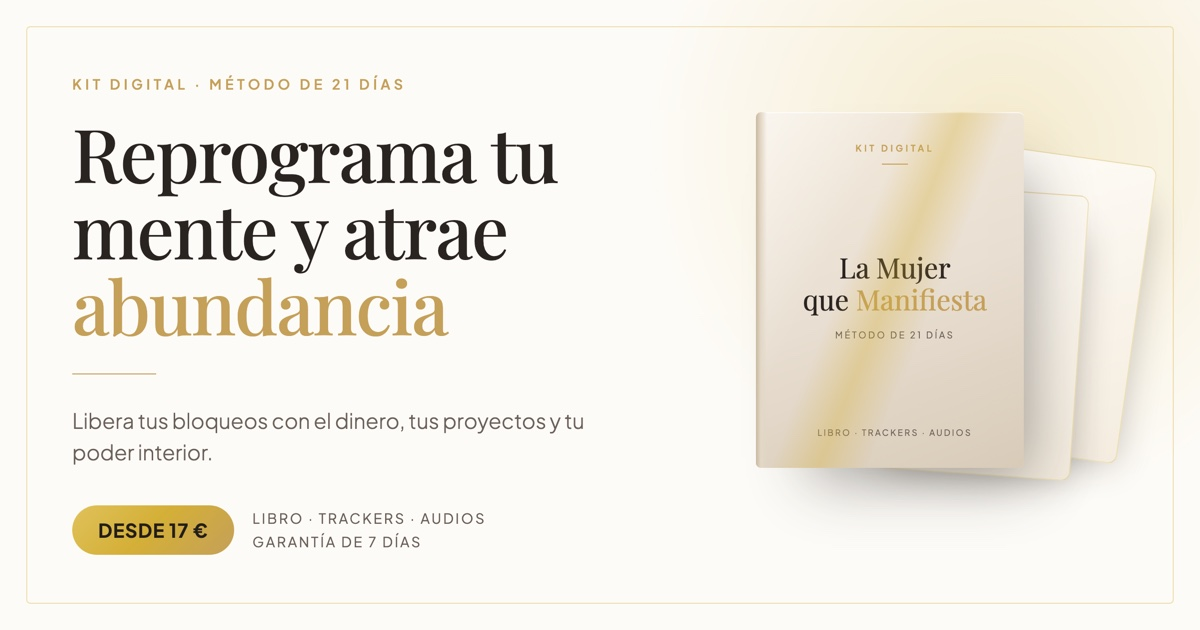
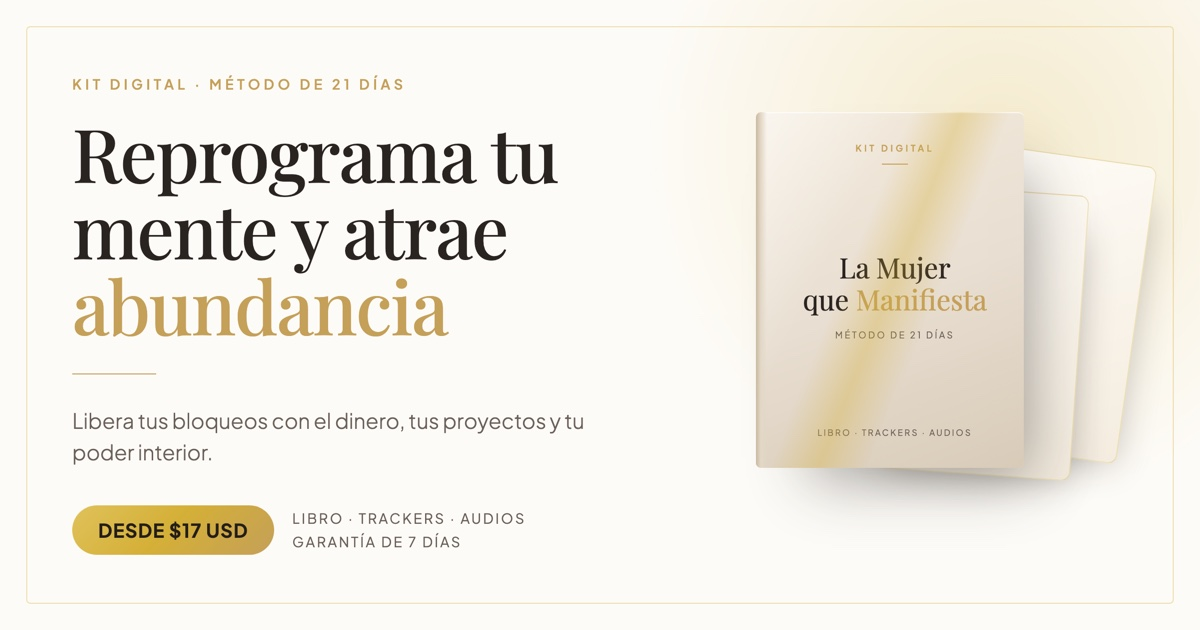
Deja los precios en dólares y abre el checkout en pestaña nueva
Hotmart localiza la moneda según el país de la compradora, así que la
página muestra dólares como referencia y el checkout hace la conversión.
La nota de impuestos deja de nombrar el IVA español.

Los botones de pago abren en pestaña nueva: el checkout de Hotmart no
tiene enlace de vuelta, así que quien no completa la compra se quedaba
sin salida. Con la landing abierta detrás, basta con cerrar la pestaña.

Changed region(s): [[0.1233, 0.7841, 0.4317, 0.9048]]

diff --git a/artifact.html b/artifact.html
@@ -204,9 +204,9 @@
         <hr class="rule my-8">
 
         <div class="flex flex-col sm:flex-row sm:items-center gap-4">
-          <a href="https://go.hotmart.com/P107334202L?ap=c4cb"
+          <a href="https://go.hotmart.com/P107334202L?ap=c4cb" target="_blank" rel="noopener"
              class="btn-gold inline-flex items-center justify-center gap-2 rounded-full font-sans font-bold uppercase tracking-[.1em] text-[.78rem] sm:text-[.82rem] text-center px-8 py-[1.1rem]">
-            ¡Quiero mi kit ahora por 17 €!
+            ¡Quiero mi kit ahora por $17!
           </a>
           <p class="text-[.78rem] leading-relaxed" style="color:var(--fg-soft);">
             Acceso inmediato · Pago único · Garantía de 7 días
@@ -487,7 +487,7 @@
       <article class="card rounded-2xl" style="padding:clamp(1.5rem,3.5vw,2rem); min-width:0;">
         <div class="flex items-center justify-between gap-3">
           <p class="eyebrow">Bono 01</p>
-          <p class="text-[.78rem] font-semibold" style="color:var(--gold-deep);">Valor 19 €</p>
+          <p class="text-[.78rem] font-semibold" style="color:var(--gold-deep);">Valor $19</p>
         </div>
         <h3 class="mt-3 font-display text-xl leading-snug">Meditación «Dinero sin culpa»</h3>
         <p class="mt-3 leading-relaxed" style="color:var(--fg-soft);">
@@ -498,7 +498,7 @@
       <article class="card rounded-2xl" style="padding:clamp(1.5rem,3.5vw,2rem); min-width:0;">
         <div class="flex items-center justify-between gap-3">
           <p class="eyebrow">Bono 02</p>
-          <p class="text-[.78rem] font-semibold" style="color:var(--gold-deep);">Valor 14 €</p>
+          <p class="text-[.78rem] font-semibold" style="color:var(--gold-deep);">Valor $14</p>
         </div>
         <h3 class="mt-3 font-display text-xl leading-snug">Tu guion de afirmaciones</h3>
         <p class="mt-3 leading-relaxed" style="color:var(--fg-soft);">
@@ -509,7 +509,7 @@
       <article class="card rounded-2xl" style="padding:clamp(1.5rem,3.5vw,2rem); min-width:0;">
         <div class="flex items-center justify-between gap-3">
           <p class="eyebrow">Bono 03</p>
-          <p class="text-[.78rem] font-semibold" style="color:var(--gold-deep);">Valor 12 €</p>
+          <p class="text-[.78rem] font-semibold" style="color:var(--gold-deep);">Valor $12</p>
         </div>
         <h3 class="mt-3 font-display text-xl leading-snug">Ritual de luna nueva</h3>
         <p class="mt-3 leading-relaxed" style="color:var(--fg-soft);">
@@ -537,19 +537,19 @@
         <ul class="space-y-3.5">
           <li class="flex items-baseline justify-between gap-4 text-[.95rem]">
             <span>Libro digital «La Mujer que Manifiesta»</span>
-            <span class="shrink-0 count" style="color:var(--fg-soft);">27 €</span>
+            <span class="shrink-0 count" style="color:var(--fg-soft);">$27</span>
           </li>
           <li class="flex items-baseline justify-between gap-4 text-[.95rem]">
             <span>Trackers imprimibles de 21 días</span>
-            <span class="shrink-0 count" style="color:var(--fg-soft);">15 €</span>
+            <span class="shrink-0 count" style="color:var(--fg-soft);">$15</span>
           </li>
           <li class="flex items-baseline justify-between gap-4 text-[.95rem]">
             <span>Audios de reprogramación</span>
-            <span class="shrink-0 count" style="color:var(--fg-soft);">13 €</span>
+            <span class="shrink-0 count" style="color:var(--fg-soft);">$13</span>
           </li>
           <li class="flex items-baseline justify-between gap-4 text-[.95rem]">
             <span>Los tres bonos de lanzamiento</span>
-            <span class="shrink-0 count" style="color:var(--fg-soft);">45 €</span>
+            <span class="shrink-0 count" style="color:var(--fg-soft);">$45</span>
           </li>
         </ul>
 
@@ -557,14 +557,15 @@
 
         <div class="text-center">
           <p class="text-[.8rem] uppercase tracking-[.16em]" style="color:var(--fg-soft);">
-            Valor real <s class="count" style="text-decoration-thickness:1px;">100 €</s>
+            Valor real <s class="count" style="text-decoration-thickness:1px;">$100</s>
           </p>
           <p class="mt-3 font-display leading-none count" style="font-size:clamp(3.4rem,11vw,4.75rem);">
-            17<span style="font-size:.4em; vertical-align:.5em; margin-left:.08em; color:var(--gold-deep);">€</span>
+            <span style="font-size:.42em; vertical-align:.55em; color:var(--gold-deep);">$</span>17
+            <span class="font-sans font-light" style="font-size:.2em; letter-spacing:.14em; vertical-align:.7em; color:var(--fg-soft);">USD</span>
           </p>
           <p class="mt-3 font-semibold" style="color:var(--gold-deep);">Pago único · 69% de descuento</p>
           <p class="mt-2 text-[.76rem]" style="color:var(--fg-soft);">
-            Más el IVA que corresponda a tu país. En España, el total es 20,57 €.
+            Más los impuestos que correspondan a tu país.
           </p>
         </div>
 
@@ -575,10 +576,10 @@
           </p>
         </div>
 
-        <a href="https://go.hotmart.com/P107334202L?ap=c4cb"
+        <a href="https://go.hotmart.com/P107334202L?ap=c4cb" target="_blank" rel="noopener"
            class="btn-gold mt-8 flex items-center justify-center rounded-full font-sans font-bold uppercase tracking-[.1em] text-center"
            style="font-size:clamp(.78rem,2.6vw,.9rem); padding:1.25rem 1.5rem;">
-          Sí, quiero mi kit por 17 €
+          Sí, quiero mi kit por $17
         </a>
 
         <p class="mt-5 text-center text-[.76rem] leading-relaxed" style="color:var(--fg-soft);">
@@ -731,10 +732,10 @@
       La diferencia no la hace la suerte. La hace la mujer que decide, hoy, dejar de negociar con su propia escasez.
     </p>
 
-    <a href="https://go.hotmart.com/P107334202L?ap=c4cb"
+    <a href="https://go.hotmart.com/P107334202L?ap=c4cb" target="_blank" rel="noopener"
        class="btn-gold mt-9 inline-flex items-center justify-center rounded-full font-sans font-bold uppercase tracking-[.1em]"
        style="font-size:clamp(.78rem,2.6vw,.88rem); padding:1.25rem 2.5rem;">
-      Empezar hoy por 17 €
+      Empezar hoy por $17
     </a>
 
     <p class="mt-5 text-[.76rem]" style="color:var(--fg-soft);">
@@ -774,11 +775,11 @@
 <!-- ───────────────────────── CTA FIJO EN MÓVIL ───────────────────────── -->
 <div class="fixed left-0 right-0 bottom-0 z-50 sm:hidden"
      style="background:rgba(253,251,247,.93); backdrop-filter:blur(10px); border-top:1px solid var(--hairline); padding:.7rem 16px; padding-bottom:calc(.7rem + env(safe-area-inset-bottom, 0px));">
-  <a href="https://go.hotmart.com/P107334202L?ap=c4cb"
+  <a href="https://go.hotmart.com/P107334202L?ap=c4cb" target="_blank" rel="noopener"
      class="btn-gold flex items-center justify-center gap-2 rounded-full font-sans font-bold uppercase tracking-[.08em] text-[.74rem]"
      style="padding:.95rem 1rem;">
-    Quiero mi kit por 17 €
-    <span class="font-normal normal-case tracking-normal" style="opacity:.72;">(antes 55 €)</span>
+    Quiero mi kit por $17
+    <span class="font-normal normal-case tracking-normal" style="opacity:.72;">(antes $55)</span>
   </a>
 </div>
 

diff --git a/index.html b/index.html
@@ -245,9 +245,9 @@
         <hr class="rule my-8">
 
         <div class="flex flex-col sm:flex-row sm:items-center gap-4">
-          <a href="https://go.hotmart.com/P107334202L?ap=c4cb"
+          <a href="https://go.hotmart.com/P107334202L?ap=c4cb" target="_blank" rel="noopener"
              class="btn-gold inline-flex items-center justify-center gap-2 rounded-full font-sans font-bold uppercase tracking-[.1em] text-[.78rem] sm:text-[.82rem] text-center px-8 py-[1.1rem]">
-            ¡Quiero mi kit ahora por 17 €!
+            ¡Quiero mi kit ahora por $17!
           </a>
           <p class="text-[.78rem] leading-relaxed" style="color:var(--fg-soft);">
             Acceso inmediato · Pago único · Garantía de 7 días
@@ -528,7 +528,7 @@
       <article class="card rounded-2xl" style="padding:clamp(1.5rem,3.5vw,2rem); min-width:0;">
         <div class="flex items-center justify-between gap-3">
           <p class="eyebrow">Bono 01</p>
-          <p class="text-[.78rem] font-semibold" style="color:var(--gold-deep);">Valor 19 €</p>
+          <p class="text-[.78rem] font-semibold" style="color:var(--gold-deep);">Valor $19</p>
         </div>
         <h3 class="mt-3 font-display text-xl leading-snug">Meditación «Dinero sin culpa»</h3>
         <p class="mt-3 leading-relaxed" style="color:var(--fg-soft);">
@@ -539,7 +539,7 @@
       <article class="card rounded-2xl" style="padding:clamp(1.5rem,3.5vw,2rem); min-width:0;">
         <div class="flex items-center justify-between gap-3">
           <p class="eyebrow">Bono 02</p>
-          <p class="text-[.78rem] font-semibold" style="color:var(--gold-deep);">Valor 14 €</p>
+          <p class="text-[.78rem] font-semibold" style="color:var(--gold-deep);">Valor $14</p>
         </div>
         <h3 class="mt-3 font-display text-xl leading-snug">Tu guion de afirmaciones</h3>
         <p class="mt-3 leading-relaxed" style="color:var(--fg-soft);">
@@ -550,7 +550,7 @@
       <article class="card rounded-2xl" style="padding:clamp(1.5rem,3.5vw,2rem); min-width:0;">
         <div class="flex items-center justify-between gap-3">
           <p class="eyebrow">Bono 03</p>
-          <p class="text-[.78rem] font-semibold" style="color:var(--gold-deep);">Valor 12 €</p>
+          <p class="text-[.78rem] font-semibold" style="color:var(--gold-deep);">Valor $12</p>
         </div>
         <h3 class="mt-3 font-display text-xl leading-snug">Ritual de luna nueva</h3>
         <p class="mt-3 leading-relaxed" style="color:var(--fg-soft);">
@@ -578,19 +578,19 @@
         <ul class="space-y-3.5">
           <li class="flex items-baseline justify-between gap-4 text-[.95rem]">
             <span>Libro digital «La Mujer que Manifiesta»</span>
-            <span class="shrink-0 count" style="color:var(--fg-soft);">27 €</span>
+            <span class="shrink-0 count" style="color:var(--fg-soft);">$27</span>
           </li>
           <li class="flex items-baseline justify-between gap-4 text-[.95rem]">
             <span>Trackers imprimibles de 21 días</span>
-            <span class="shrink-0 count" style="color:var(--fg-soft);">15 €</span>
+            <span class="shrink-0 count" style="color:var(--fg-soft);">$15</span>
           </li>
           <li class="flex items-baseline justify-between gap-4 text-[.95rem]">
             <span>Audios de reprogramación</span>
-            <span class="shrink-0 count" style="color:var(--fg-soft);">13 €</span>
+            <span class="shrink-0 count" style="color:var(--fg-soft);">$13</span>
           </li>
           <li class="flex items-baseline justify-between gap-4 text-[.95rem]">
             <span>Los tres bonos de lanzamiento</span>
-            <span class="shrink-0 count" style="color:var(--fg-soft);">45 €</span>
+            <span class="shrink-0 count" style="color:var(--fg-soft);">$45</span>
           </li>
         </ul>
 
@@ -598,14 +598,15 @@
 
         <div class="text-center">
           <p class="text-[.8rem] uppercase tracking-[.16em]" style="color:var(--fg-soft);">
-            Valor real <s class="count" style="text-decoration-thickness:1px;">100 €</s>
+            Valor real <s class="count" style="text-decoration-thickness:1px;">$100</s>
           </p>
           <p class="mt-3 font-display leading-none count" style="font-size:clamp(3.4rem,11vw,4.75rem);">
-            17<span style="font-size:.4em; vertical-align:.5em; margin-left:.08em; color:var(--gold-deep);">€</span>
+            <span style="font-size:.42em; vertical-align:.55em; color:var(--gold-deep);">$</span>17
+            <span class="font-sans font-light" style="font-size:.2em; letter-spacing:.14em; vertical-align:.7em; color:var(--fg-soft);">USD</span>
           </p>
           <p class="mt-3 font-semibold" style="color:var(--gold-deep);">Pago único · 69% de descuento</p>
           <p class="mt-2 text-[.76rem]" style="color:var(--fg-soft);">
-            Más el IVA que corresponda a tu país. En España, el total es 20,57 €.
+            Más los impuestos que correspondan a tu país.
           </p>
         </div>
 
@@ -616,10 +617,10 @@
           </p>
         </div>
 
-        <a href="https://go.hotmart.com/P107334202L?ap=c4cb"
+        <a href="https://go.hotmart.com/P107334202L?ap=c4cb" target="_blank" rel="noopener"
            class="btn-gold mt-8 flex items-center justify-center rounded-full font-sans font-bold uppercase tracking-[.1em] text-center"
            style="font-size:clamp(.78rem,2.6vw,.9rem); padding:1.25rem 1.5rem;">
-          Sí, quiero mi kit por 17 €
+          Sí, quiero mi kit por $17
         </a>
 
         <p class="mt-5 text-center text-[.76rem] leading-relaxed" style="color:var(--fg-soft);">
@@ -772,10 +773,10 @@
       La diferencia no la hace la suerte. La hace la mujer que decide, hoy, dejar de negociar con su propia escasez.
     </p>
 
-    <a href="https://go.hotmart.com/P107334202L?ap=c4cb"
+    <a href="https://go.hotmart.com/P107334202L?ap=c4cb" target="_blank" rel="noopener"
        class="btn-gold mt-9 inline-flex items-center justify-center rounded-full font-sans font-bold uppercase tracking-[.1em]"
        style="font-size:clamp(.78rem,2.6vw,.88rem); padding:1.25rem 2.5rem;">
-      Empezar hoy por 17 €
+      Empezar hoy por $17
     </a>
 
     <p class="mt-5 text-[.76rem]" style="color:var(--fg-soft);">
@@ -815,11 +816,11 @@
 <!-- ───────────────────────── CTA FIJO EN MÓVIL ───────────────────────── -->
 <div class="fixed left-0 right-0 bottom-0 z-50 sm:hidden"
      style="background:rgba(253,251,247,.93); backdrop-filter:blur(10px); border-top:1px solid var(--hairline); padding:.7rem 16px; padding-bottom:calc(.7rem + env(safe-area-inset-bottom, 0px));">
-  <a href="https://go.hotmart.com/P107334202L?ap=c4cb"
+  <a href="https://go.hotmart.com/P107334202L?ap=c4cb" target="_blank" rel="noopener"
      class="btn-gold flex items-center justify-center gap-2 rounded-full font-sans font-bold uppercase tracking-[.08em] text-[.74rem]"
      style="padding:.95rem 1rem;">
-    Quiero mi kit por 17 €
-    <span class="font-normal normal-case tracking-normal" style="opacity:.72;">(antes 55 €)</span>
+    Quiero mi kit por $17
+    <span class="font-normal normal-case tracking-normal" style="opacity:.72;">(antes $55)</span>
   </a>
 </div>
 

diff --git a/productos.html b/productos.html
@@ -226,8 +226,8 @@ var PRODUCTOS = [
     titulo:      "La Mujer que Manifiesta",
     portada:     "Método de 21 días",
     descripcion: "Libro digital, trackers imprimibles y audios de reprogramación para romper el ciclo de escasez en tres semanas.",
-    precio:      "17 €",
-    precioAntes: "55 €",
+    precio:      "$17",
+    precioAntes: "$55",
     enlace:      "https://go.hotmart.com/P107334202L?ap=c4cb",
     boton:       "Comprar el kit"
   },
@@ -281,6 +281,8 @@ var PRODUCTOS = [
     if (vivo && p.enlace) {
       boton =
         '<a href="' + esc(p.enlace) + '" ' +
+        // Los enlaces de pago abren en pestaña nueva: el catálogo queda abierto detrás
+        (/^https?:/.test(p.enlace) ? 'target="_blank" rel="noopener" ' : '') +
         'class="btn-gold mt-5 flex items-center justify-center rounded-full font-bold uppercase tracking-[.1em] text-[.74rem]" ' +
         'style="padding:.95rem 1rem; text-decoration:none;">' + esc(p.boton || 'Ver más') + '</a>';
     }
